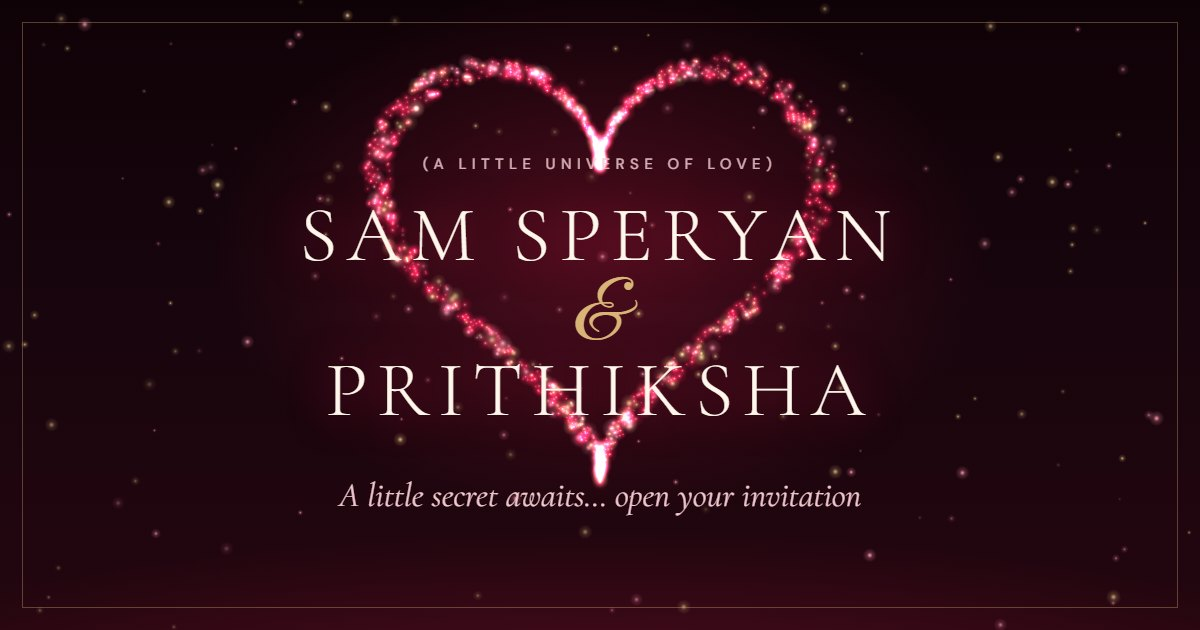
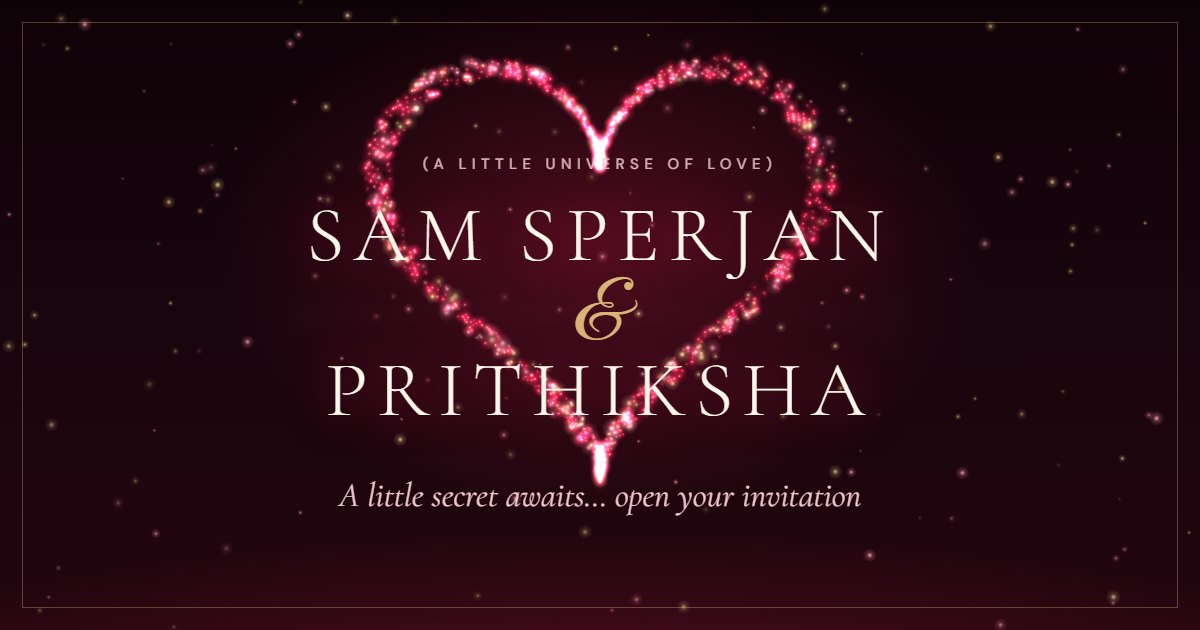
Rename to Sam Sperjan and fix clipped letters in headings

Changed region(s): [[0.4317, 0.3317, 0.74, 0.4222], [0.2467, 0.3317, 0.4008, 0.4222]]

diff --git a/src/sections/IntroSection.tsx b/src/sections/IntroSection.tsx
@@ -1,6 +1,6 @@
 import { useRef } from 'react'
 import type { MouseEvent } from 'react'
-import { duration, ease, gsap, mediaConditions, SplitText, stagger, useGSAP } from '../animations/gsap'
+import { duration, ease, gsap, mediaConditions, SplitText, splitClasses, stagger, useGSAP } from '../animations/gsap'
 import { GlowField } from '../components/atmosphere/GlowField'
 import { PetalField } from '../components/atmosphere/PetalField'
 import { HeartCanvas } from '../components/intro/HeartCanvas'
@@ -36,8 +36,8 @@ export function IntroSection() {
           return
         }
 
-        const names = new SplitText('.intro__name', { type: 'words,chars', mask: 'words' })
-        const tagline = new SplitText('.intro__tagline', { type: 'words' })
+        const names = new SplitText('.intro__name', { ...splitClasses, type: 'words,chars', mask: 'words' })
+        const tagline = new SplitText('.intro__tagline', { ...splitClasses, type: 'words' })
 
         const tl = gsap.timeline({ defaults: { ease: ease.enter } })
         tl.to('.intro__veil', { autoAlpha: 0, duration: 1.4, ease: 'sine.out' })
@@ -46,7 +46,7 @@ export function IntroSection() {
           .to(state, { glow: 1, duration: 2, ease: 'sine.inOut' }, 1.3)
           .to(state, { beat: 1, duration: 1.2, ease: 'sine.in' }, 1.9)
           .from('.intro__eyebrow', { autoAlpha: 0, y: 12, duration: duration.m }, 1.3)
-          .from(names.chars, { yPercent: 110, rotate: 6, duration: 1.3, stagger: stagger.chars }, 1.5)
+          .from(names.chars, { yPercent: 160, rotate: 6, duration: 1.3, stagger: stagger.chars }, 1.5)
           .from('.intro__amp', { autoAlpha: 0, scale: 0.6, rotate: -12, duration: 1.6 }, 1.85)
           .from(tagline.words, { autoAlpha: 0, y: 14, filter: 'blur(6px)', duration: 1.1, stagger: stagger.words }, 2.3)
           .from('.intro__petals', { autoAlpha: 0, duration: 2.4, ease: 'sine.inOut' }, 1.8)

diff --git a/index.html b/index.html
@@ -5,15 +5,15 @@
     <link rel="icon" type="image/svg+xml" href="/favicon.svg" />
     <meta name="viewport" content="width=device-width, initial-scale=1.0, viewport-fit=cover" />
     <meta name="theme-color" content="#18050d" />
-    <title>Sam Speryan &amp; Prithiksha · A Little Universe of Love</title>
+    <title>Sam Sperjan &amp; Prithiksha · A Little Universe of Love</title>
     <meta
       name="description"
-      content="Two hearts. One beautiful journey. You are invited to the wedding of Sam Speryan &amp; Prithiksha — scratch to reveal our special day."
+      content="Two hearts. One beautiful journey. You are invited to the wedding of Sam Sperjan &amp; Prithiksha — scratch to reveal our special day."
     />
 
     <!-- Link previews (WhatsApp, iMessage, social). og:image is made absolute at build time when VITE_SITE_URL is set. -->
     <meta property="og:type" content="website" />
-    <meta property="og:title" content="Sam Speryan &amp; Prithiksha — A Little Universe of Love" />
+    <meta property="og:title" content="Sam Sperjan &amp; Prithiksha — A Little Universe of Love" />
     <meta property="og:description" content="Two hearts. One beautiful journey. A little secret awaits — open your invitation." />
     <meta property="og:image" content="/og-image.jpg" />
     <meta property="og:image:width" content="1200" />
@@ -31,7 +31,7 @@
     <div id="root"></div>
     <noscript>
       <p style="padding: 24px; color: #fff7ec; font-family: Georgia, serif; text-align: center">
-        Sam Speryan &amp; Prithiksha — 08 February 2027. Please enable JavaScript to open the full invitation.
+        Sam Sperjan &amp; Prithiksha — 08 February 2027. Please enable JavaScript to open the full invitation.
       </p>
     </noscript>
     <script type="module" src="/src/main.tsx"></script>

diff --git a/src/sections/FinaleSection.tsx b/src/sections/FinaleSection.tsx
@@ -1,6 +1,6 @@
 import { useRef, useState } from 'react'
 import type { PointerEvent } from 'react'
-import { ease, gsap, mediaConditions, SplitText, useGSAP } from '../animations/gsap'
+import { ease, gsap, mediaConditions, SplitText, splitClasses, useGSAP } from '../animations/gsap'
 import { LanternSky } from '../components/atmosphere/LanternSky'
 import type { LanternSkyApi } from '../components/atmosphere/LanternSky'
 import { PetalField } from '../components/atmosphere/PetalField'
@@ -33,14 +33,14 @@ export function FinaleSection() {
           })
           return
         }
-        const heading = new SplitText('.finale__title', { type: 'lines,words', mask: 'lines' })
+        const heading = new SplitText('.finale__title', { ...splitClasses, type: 'lines,words', mask: 'lines' })
         gsap
           .timeline({
             defaults: { ease: ease.enter },
             scrollTrigger: { trigger: '.finale__content', start: 'top 75%', once: true },
           })
           .from('.finale__eyebrow', { autoAlpha: 0, y: 10, duration: 1 })
-          .from(heading.words, { yPercent: 110, duration: 1.5, stagger: 0.07 }, 0.15)
+          .from(heading.words, { yPercent: 160, duration: 1.5, stagger: 0.07 }, 0.15)
           .from('.finale__signature', { autoAlpha: 0, y: 14, filter: 'blur(6px)', duration: 1.4 }, 0.9)
           .from(
             '.finale__date, .finale__actions > *, .finale__secret-heart',

diff --git a/src/sections/WishesSection.tsx b/src/sections/WishesSection.tsx
@@ -1,5 +1,5 @@
 import { useCallback, useEffect, useRef, useState } from 'react'
-import { ease, gsap, mediaConditions, SplitText, useGSAP } from '../animations/gsap'
+import { ease, gsap, mediaConditions, SplitText, splitClasses, useGSAP } from '../animations/gsap'
 import { GlowField } from '../components/atmosphere/GlowField'
 import { SectionLabel, VerticalRail } from '../components/shared/Decor'
 import { WishDialog } from '../components/wishes/WishDialog'
@@ -77,13 +77,13 @@ export function WishesSection() {
           })
           return
         }
-        const title = new SplitText('.wishes__title', { type: 'words,chars', mask: 'words' })
+        const title = new SplitText('.wishes__title', { ...splitClasses, type: 'words,chars', mask: 'words' })
         const tl = gsap.timeline({
           defaults: { ease: ease.enter },
           scrollTrigger: { trigger: '.wishes__head', start: 'top 82%', once: true },
         })
         tl.from('.wishes__head .section-label', { autoAlpha: 0, y: 12, duration: 1 })
-          .from(title.chars, { yPercent: 110, duration: 1.2, stagger: 0.03 }, 0.1)
+          .from(title.chars, { yPercent: 160, duration: 1.2, stagger: 0.03 }, 0.1)
           .from('.wishes__lede', { autoAlpha: 0, y: 16, duration: 1 }, 0.5)
           .from('.wish-form', { autoAlpha: 0, y: 40, rotate: -1.5, duration: 1.4 }, 0.6)
         return () => title.revert()

diff --git a/src/sections/StorySection.tsx b/src/sections/StorySection.tsx
@@ -1,5 +1,5 @@
 import { useRef } from 'react'
-import { ease, gsap, mediaConditions, SplitText, useGSAP } from '../animations/gsap'
+import { ease, gsap, mediaConditions, SplitText, splitClasses, useGSAP } from '../animations/gsap'
 import { RoseSprig, SectionLabel, VerticalRail } from '../components/shared/Decor'
 import { wedding } from '../config/wedding'
 import type { Person, StoryPhoto } from '../types/wedding'
@@ -52,7 +52,7 @@ export function StorySection() {
         }
 
         // Verse: words brighten as the guest reads down the page.
-        const verseSplit = new SplitText('.verse__text', { type: 'words' })
+        const verseSplit = new SplitText('.verse__text', { ...splitClasses, type: 'words' })
         gsap.fromTo(
           verseSplit.words,
           { opacity: 0.14 },
@@ -72,9 +72,9 @@ export function StorySection() {
           scrollTrigger: { trigger: '.verse__ref', start: 'top 88%', once: true },
         })
 
-        const title = new SplitText('.story__title', { type: 'chars', mask: 'chars' })
+        const title = new SplitText('.story__title', { ...splitClasses, type: 'chars', mask: 'chars' })
         gsap.from(title.chars, {
-          yPercent: 105,
+          yPercent: 160,
           duration: 1.3,
           ease: ease.enter,
           stagger: 0.05,

diff --git a/src/sections/DateSection.tsx b/src/sections/DateSection.tsx
@@ -1,5 +1,5 @@
 import { useMemo, useRef } from 'react'
-import { ease, gsap, mediaConditions, SplitText, useGSAP } from '../animations/gsap'
+import { ease, gsap, mediaConditions, SplitText, splitClasses, useGSAP } from '../animations/gsap'
 import { GlowField } from '../components/atmosphere/GlowField'
 import { AddToCalendar } from '../components/shared/AddToCalendar'
 import { GoldRule, SectionLabel, VerticalRail } from '../components/shared/Decor'
@@ -79,9 +79,9 @@ export function DateSection() {
           stagger: 0.15,
           scrollTrigger: { trigger: '.giant-date', start: 'top 85%', once: true },
         })
-        const heading = new SplitText('.date__heading', { type: 'words', mask: 'words' })
+        const heading = new SplitText('.date__heading', { ...splitClasses, type: 'words', mask: 'words' })
         gsap.from(heading.words, {
-          yPercent: 100,
+          yPercent: 160,
           duration: 1.2,
           ease: ease.enter,
           stagger: 0.06,

diff --git a/src/sections/CelebrationsSection.tsx b/src/sections/CelebrationsSection.tsx
@@ -1,5 +1,5 @@
 import { useRef } from 'react'
-import { ease, gsap, mediaConditions, SplitText, useGSAP } from '../animations/gsap'
+import { ease, gsap, mediaConditions, SplitText, splitClasses, useGSAP } from '../animations/gsap'
 import { GlowField } from '../components/atmosphere/GlowField'
 import { EventCard } from '../components/events/EventCard'
 import { SectionLabel, VerticalRail } from '../components/shared/Decor'
@@ -25,9 +25,9 @@ export function CelebrationsSection() {
           )
           return
         }
-        const title = new SplitText('.celebrations__title', { type: 'words,chars', mask: 'words' })
+        const title = new SplitText('.celebrations__title', { ...splitClasses, type: 'words,chars', mask: 'words' })
         gsap.from(title.chars, {
-          yPercent: 110,
+          yPercent: 160,
           duration: 1.2,
           ease: ease.enter,
           stagger: 0.03,

diff --git a/src/animations/gsap.ts b/src/animations/gsap.ts
@@ -23,6 +23,12 @@ export const ease = {
 
 export const duration = { xs: 0.3, s: 0.6, m: 1, l: 1.6, xl: 2.4 } as const
 
+/**
+ * Classes for SplitText pieces. Masks inherit them with a -mask suffix, which
+ * base.css uses to give masks room for ascenders, descenders and swashes.
+ */
+export const splitClasses = { wordsClass: 'split-word', charsClass: 'split-char', linesClass: 'split-line' } as const
+
 export const stagger = { chars: 0.035, words: 0.06, lines: 0.12, items: 0.1 } as const
 
 /** Shared gsap.matchMedia conditions. */

diff --git a/src/styles/base.css b/src/styles/base.css
@@ -310,6 +310,17 @@ a {
   fill: currentColor;
 }
 
+/* SplitText masks hide text that is still sliding in, but a mask the exact
+   height of the line box would also crop descenders (J, y, g), accents and
+   script swashes. Padding + equal negative margin enlarges the visible
+   window without moving the layout. */
+.split-word-mask,
+.split-char-mask,
+.split-line-mask {
+  padding: 0.14em 0.06em 0.26em;
+  margin: -0.14em -0.06em -0.26em;
+}
+
 .tba {
   font-family: var(--font-display);
   font-style: italic;

diff --git a/src/styles/intro.css b/src/styles/intro.css
@@ -95,7 +95,10 @@
 
 .intro__amp {
   display: block;
-  margin: 0.02em 0 -0.06em;
+  /* Gradient text only paints inside the box, so pad generously for the
+     script ampersand's loops and pull the spacing back with margins. */
+  padding: 0.22em 0.18em 0.12em;
+  margin: -0.2em 0 -0.18em;
   background: var(--gold-text);
   -webkit-background-clip: text;
   background-clip: text;

diff --git a/src/config/wedding.ts b/src/config/wedding.ts
@@ -47,7 +47,7 @@ export const wedding: WeddingConfig = {
   projectName: 'A Little Universe of Love',
 
   couple: {
-    partnerOne: { fullName: 'Sam Speryan', shortName: 'Sam' },
+    partnerOne: { fullName: 'Sam Sperjan', shortName: 'Sam' },
     partnerTwo: { fullName: 'Prithiksha', shortName: 'Prithiksha' },
     monogram: 'S & P',
   },

diff --git a/src/styles/practical.css b/src/styles/practical.css
@@ -972,7 +972,8 @@ p.venue__address.tba {
 }
 
 .finale__signature {
-  margin: 18px 0 0;
+  padding: 0.18em 0.2em 0.2em;
+  margin: calc(18px - 0.18em) 0 -0.2em;
   background: var(--gold-text);
   -webkit-background-clip: text;
   background-clip: text;
